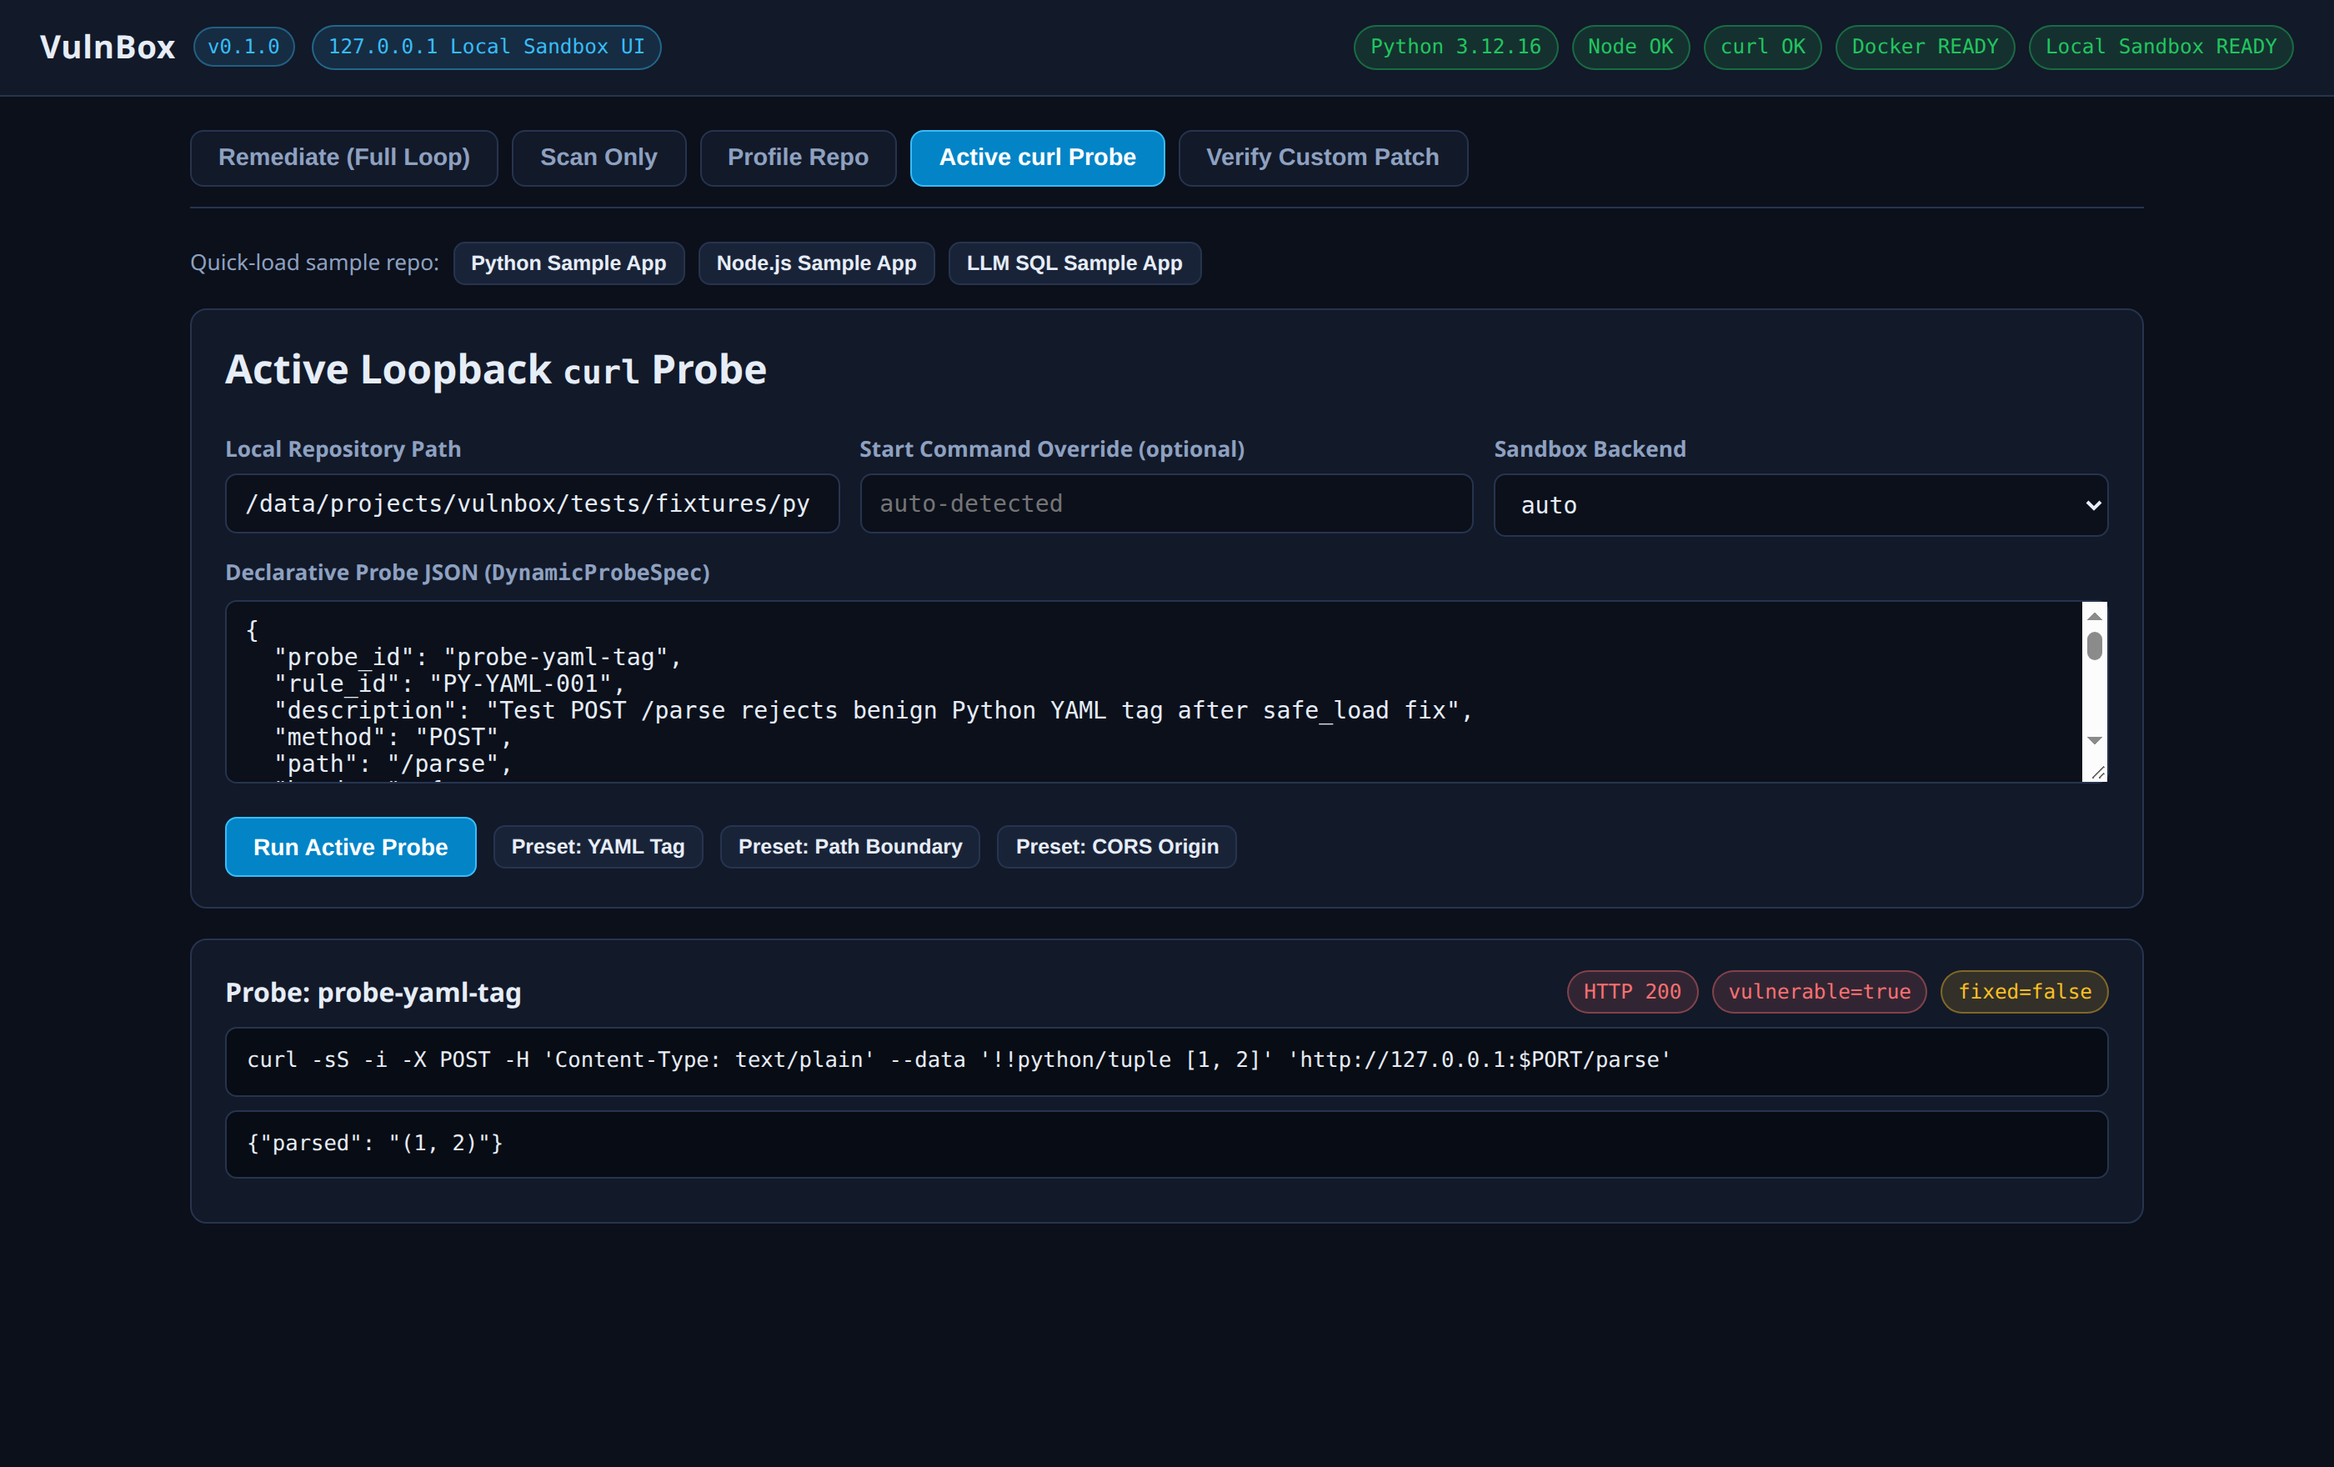
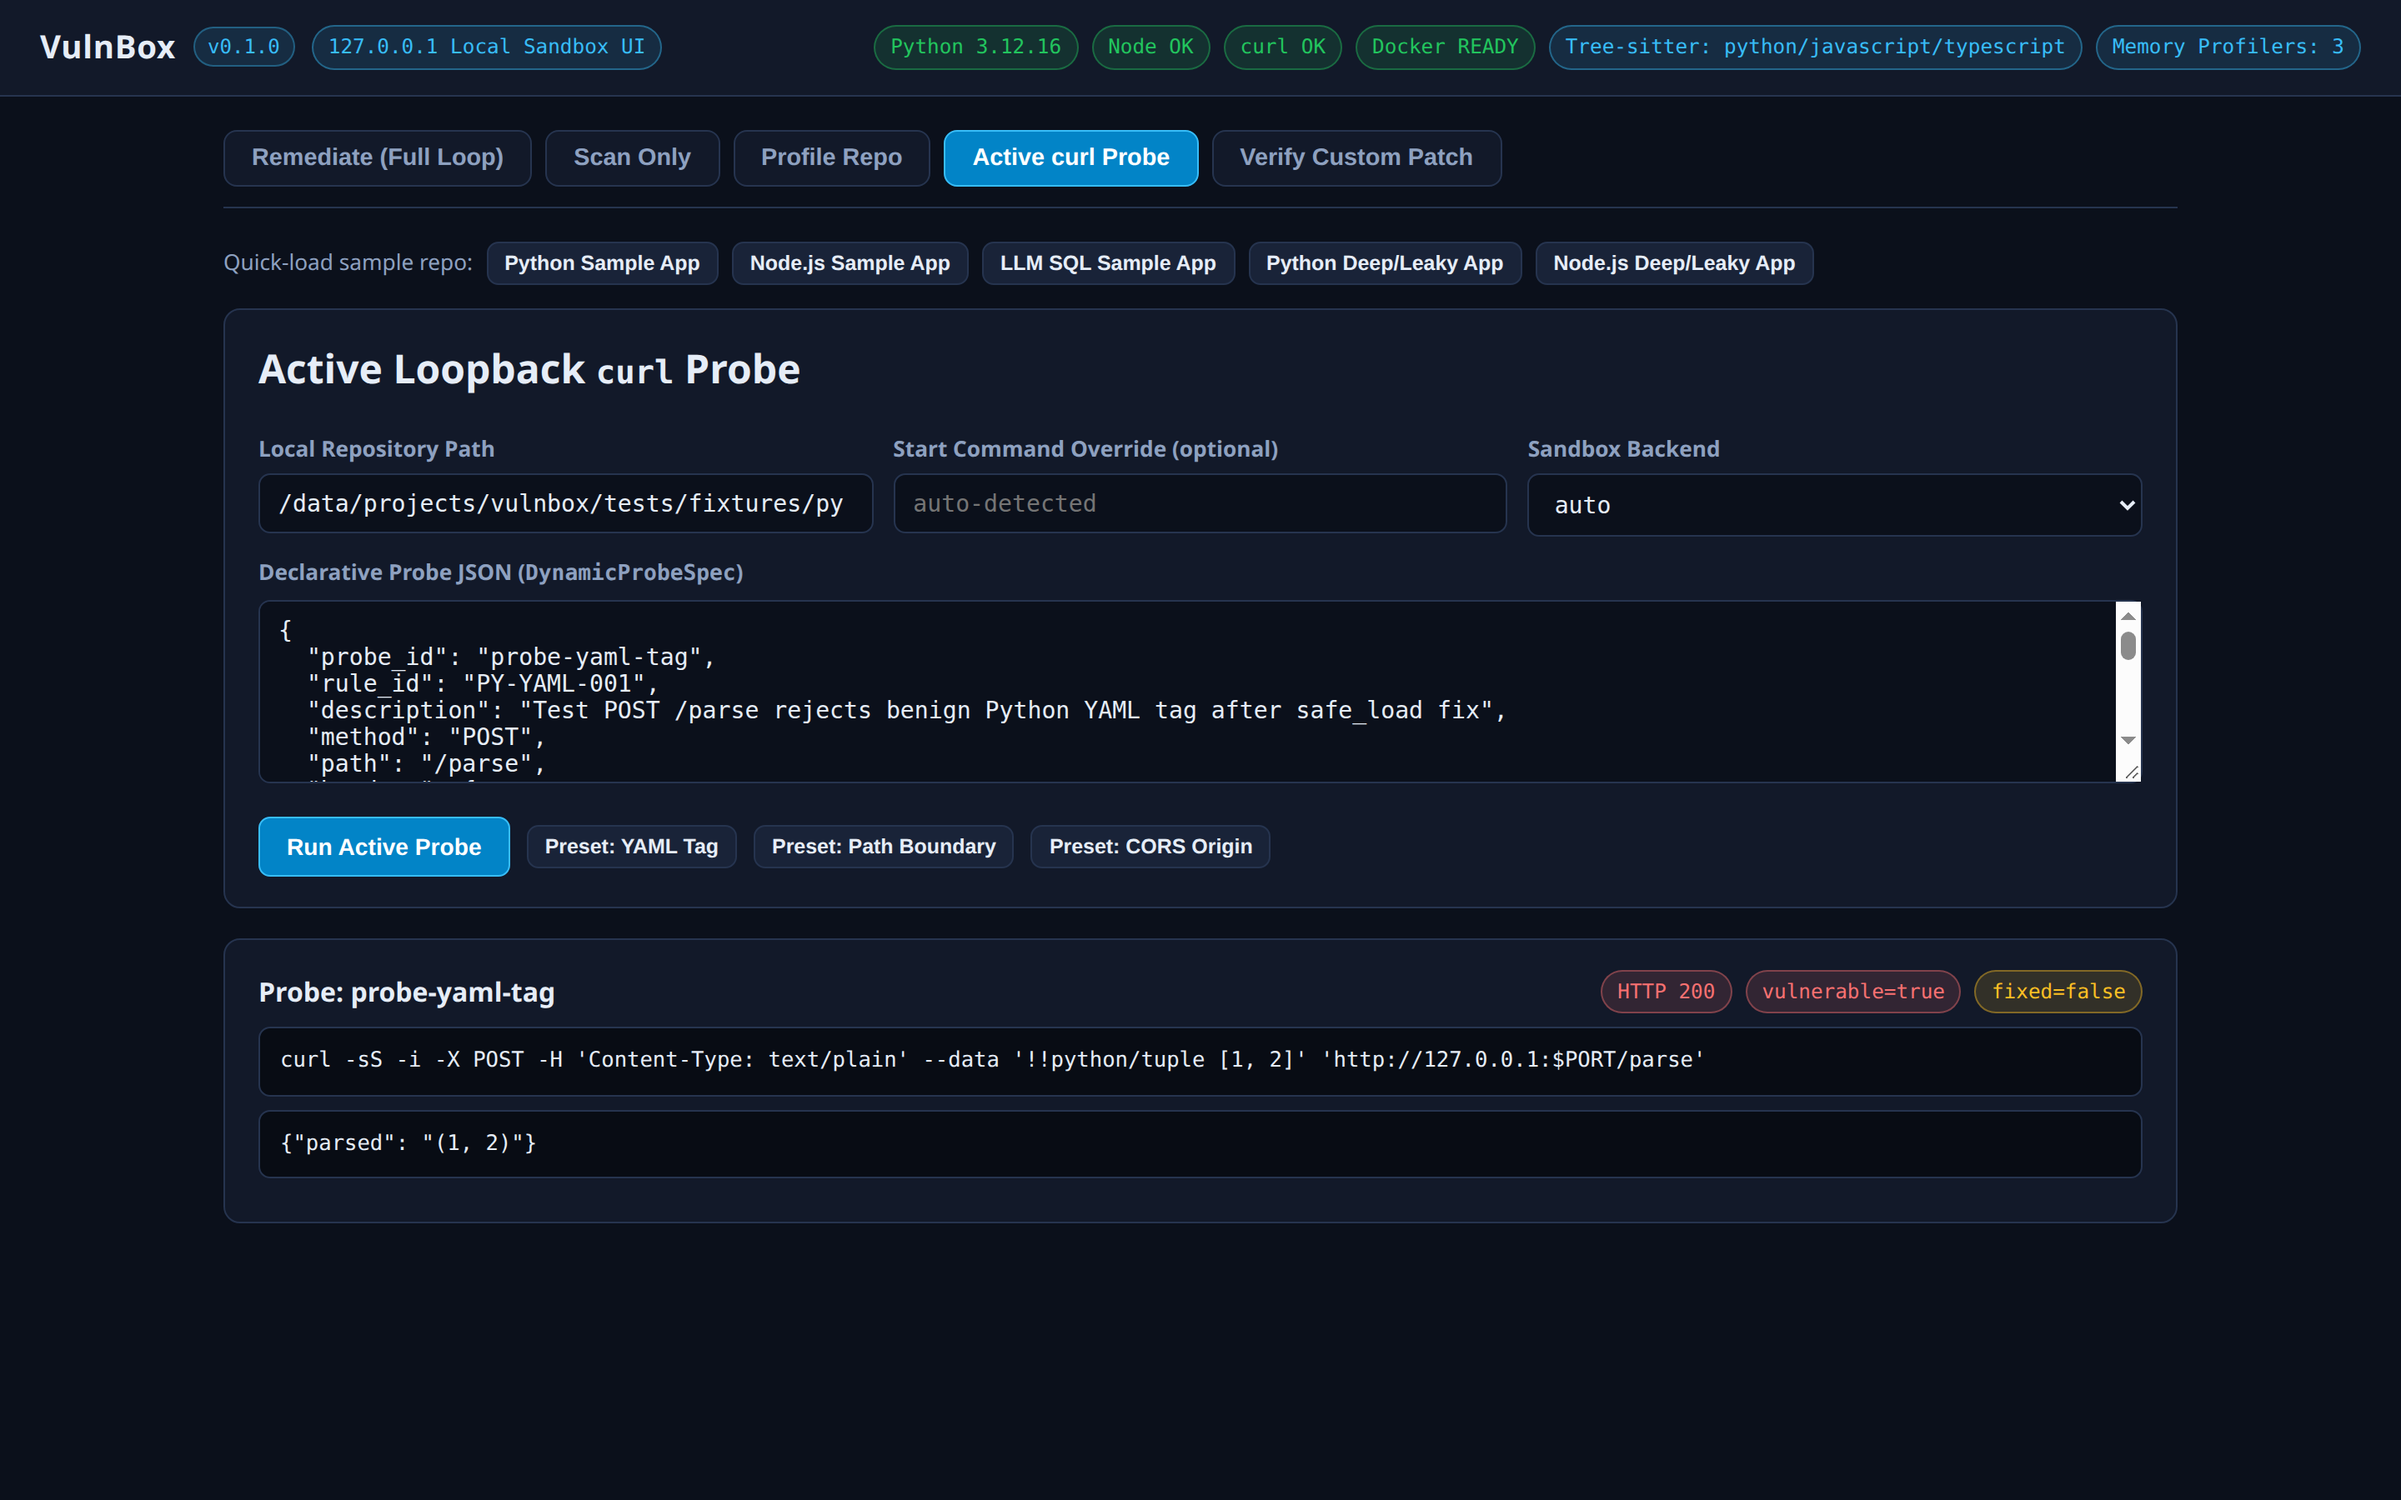
docs: refresh UI screenshots and document hybrid call graph and memory/FD leak detection

diff --git a/README.md b/README.md
@@ -57,19 +57,32 @@ It exposes every CLI workflow—**Remediate** (with optional guarded `--llm`), *
 
 The UI server binds strictly to loopback (`127.0.0.1`), enforces a per-session CSRF token (`X-VulnBox-Token`) on all `POST /api/*` requests, validates `Host`/`Origin` headers, and sets strict `Content-Security-Policy` and `X-Frame-Options: DENY` headers.
 
-![VulnBox Web UI Remediation Results](docs/images/ui-remediate-results.png)
+![VulnBox Web UI Deep Scan and Memory Leak Verification](docs/images/ui-deep-memory-leaks.png)
 
-See all UI screenshots (Dashboard + `--llm` controls, Remediation Diffs, and Active `curl` Probe tab) in **[docs/ui-guide.md](docs/ui-guide.md)**.
+See all UI screenshots (Dashboard + `--deep`/`--check-leaks`/`--llm` controls, Before/After Memory & FD Slope Proof, Remediation Diffs, and Active `curl` Probe tab) in **[docs/ui-guide.md](docs/ui-guide.md)**.
+
+## Hybrid Call Graph & Memory/FD Leak Detection (`--deep` / `--check-leaks`)
+
+Default `vulnbox scan` stays fast and deterministic—running Python AST, **Tree-sitter JS/TS AST**, config/secret hygiene, static **CWE-401 / CWE-772 memory & resource leak rules** (`MEM-PY-001..004`, `MEM-JS-001..004`), and cross-file static call-graph reachability.
+
+Pass `--deep` (or `--check-leaks`) to unlock full hybrid sandbox verification:
+
+| Capability | How It Works Inside the Sandbox | Fault-Tolerant Fallback |
+| :--- | :--- | :--- |
+| **Hybrid Call Graph (`--deep`)** | Merges cross-file Python AST + Tree-sitter JS/TS CST + FastAPI/Express route/DI edges with runtime edges captured via **Python 3.12+ `sys.monitoring` (PEP 669)** and **Node.js `node:inspector` Profiler + Precise Coverage**, resolving `getattr()` and dynamic subscript dispatch (`runtime_observed`) and attaching entrypoint-to-sink CVE `call_path` traces. | If a runtime hook or grammar is unavailable on the host, degrades cleanly back to static edges with zero crash. |
+| **Dynamic Memory & FD Leak Probing (`--check-leaks` / `--deep`)** | Runs warmup → baseline GC → repeated loopback stress requests → post-GC snapshots, computing OLS heap growth slope (`B/req`), $R^2$, `/proc/<pid>/fd` delta, and `file:line` allocation attribution. Verifies leak patches **before vs. after** (`LEAK -> FIXED`). | Pluggable `MemoryProfilerAdapter` chain: `python-tracemalloc` → `node-v8-inspector` → `os-proc-fallback` (Linux `/proc` RSS+FD for any binary) → graceful `skipped=True` (never breaks scans or patch verification on incompatible OS/runtimes). |
 
 ## End-to-End Sample Runs (Captured Docker Sandbox Output)
 
-All three bundled sample repositories were tested end-to-end inside the hardened **`vulnbox-sandbox:latest`** Docker container (`--network=none`, `--cap-drop=ALL`, `--read-only`, non-root user). Full captured CLI output, before/after `curl` HTTP responses, unified diffs, regression test transitions, and Guardrail Audit Trails live under `docs/`:
+Bundled sample repositories were tested end-to-end inside the hardened **`vulnbox-sandbox:latest`** Docker container (`--network=none`, `--cap-drop=ALL`, `--read-only`, non-root user, `memray` included). Full captured CLI output, before/after `curl` HTTP responses, unified diffs, regression test transitions, and Guardrail Audit Trails live under `docs/`:
 
-| Sample Repo | Mode | Findings | Verified Patches | Live `curl` Confirmed → Fixed | Full Capture |
+| Sample Repo | Mode | Findings | Verified Patches | Live Proof Confirmed → Fixed | Full Capture |
 | :--- | :--- | :---: | :---: | :---: | :--- |
-| [`tests/fixtures/py_sample_app`](tests/fixtures/py_sample_app) | Deterministic (`--backend docker`) | 8 | 7 / 7 | 2 (`PY-YAML-001`, `PY-PATH-001`) | [docs/sample-run-python.md](docs/sample-run-python.md) |
-| [`tests/fixtures/node_sample_app`](tests/fixtures/node_sample_app) | Deterministic (`--backend docker`) | 5 | 5 / 5 | 2 (`JS-PATH-001`, `JS-CORS-001`) | [docs/sample-run-node.md](docs/sample-run-node.md) |
-| [`tests/fixtures/llm_sql_app`](tests/fixtures/llm_sql_app) | Guarded LLM (`--llm` Ollama `qwen2.5:7b` + Docker) | 1 | 1 / 1 | 1 (`PY-SQL-001` + prompt-injection guardrail) | [docs/sample-run-llm-ollama.md](docs/sample-run-llm-ollama.md) |
+| [`tests/fixtures/py_sample_app`](tests/fixtures/py_sample_app) | Deterministic (`--backend docker`) | 8 | 7 / 7 | 2 `curl` (`PY-YAML-001`, `PY-PATH-001`) + CVE call path | [docs/sample-run-python.md](docs/sample-run-python.md) |
+| [`tests/fixtures/node_sample_app`](tests/fixtures/node_sample_app) | Deterministic (`--backend docker`) | 5 | 5 / 5 | 2 `curl` (`JS-PATH-001`, `JS-CORS-001`) | [docs/sample-run-node.md](docs/sample-run-node.md) |
+| [`tests/fixtures/py_leaky_app`](tests/fixtures/py_leaky_app) | Deep Hybrid (`--backend docker --deep`) | 2 | 2 / 2 | 2 Memory/FD (`16.9 KB/req → flat`, `FD +30 → 0`) + `getattr` resolved | [docs/ui-guide.md](docs/ui-guide.md) |
+| [`tests/fixtures/node_leaky_app`](tests/fixtures/node_leaky_app) | Deep Hybrid (`--backend docker --deep`) | 2 | 2 / 2 | 2 V8 Heap Leaks (`Map` + `EventEmitter.on`) + subscript resolved | [docs/ui-guide.md](docs/ui-guide.md) |
+| [`tests/fixtures/llm_sql_app`](tests/fixtures/llm_sql_app) | Guarded LLM (`--llm` Ollama `qwen2.5:7b` + Docker) | 1 | 1 / 1 | 1 `curl` (`PY-SQL-001` + prompt-injection guardrail) | [docs/sample-run-llm-ollama.md](docs/sample-run-llm-ollama.md) |
 | Public Benchmarks (`fastapi/full-stack-fastapi-template`, `OWASP/NodeGoat`) | Real-World Precision & Recall (`scan`) | 5 / 5 | — | Triage + Gap Analysis | [docs/benchmark-public-repos.md](docs/benchmark-public-repos.md) |
 
 ## Optional Guarded LLM Mode (`--llm`)

diff --git a/docs/ui-guide.md b/docs/ui-guide.md
@@ -11,23 +11,31 @@ Launch the zero-dependency local Web UI backed by `VulnBoxEngine` on **Linux, ma
 
 All launchers keep setup, `.venv/`, and `uv`/`pip` caches (`.vulnbox-cache/`) **strictly local to the repository** (setting `PIP_REQUIRE_VIRTUALENV=1`, `PIP_USER=0`, `PYTHONNOUSERSITE=1`, `UV_PROJECT_ENVIRONMENT=.venv`, and `UV_CACHE_DIR=.vulnbox-cache/uv`). They accept `--host`, `--port`, `--no-browser`, `--install` (force re-sync), `--no-install`, and `--dry-run`, and respect `VULNBOX_UI_HOST`, `VULNBOX_UI_PORT`, and `VULNBOX_NO_BROWSER`. Opens `http://127.0.0.1:8787` by default.
 
-## 1. Dashboard Overview & Guarded `--llm` Controls
+## 1. Dashboard Overview, Deep Scan (`--deep`), `--jobs`, & Guarded `--llm` Controls
 
-The top environment doctor bar reports live readiness for Python, Node.js, `curl`, the hardened Docker sandbox, and the isolated local sandbox. One-click sample buttons load bundled Python, Node.js, or LLM SQL fixtures, and the optional **Guarded LLM Synthesis (`--llm`)** panel configures Ollama, Gemini, OpenAI, or custom OpenAI-compatible endpoints.
+The top environment doctor bar reports live readiness for Python, Node.js, `curl`, the hardened Docker sandbox, **Tree-sitter grammars** (`python/javascript/typescript`), and **pluggable Memory Profilers**. One-click sample buttons load bundled Python, Node.js, LLM SQL, and Deep/Leaky fixtures, alongside `--jobs` parallel workers, **Deep Scan (`--deep`)**, **Check Memory & FD Leaks (`--check-leaks`)**, and the optional **Guarded LLM Synthesis (`--llm`)** configuration panel.
 
 ![VulnBox Web UI Dashboard Overview](images/ui-dashboard-overview.png)
 
 ---
 
-## 2. Live Docker Remediation Results, Before/After `curl` Proof & Diff Viewer
+## 2. Deep Scan: Hybrid Call Graph & Before/After Memory/FD Slope Verification
 
-After running end-to-end remediation inside the hardened Docker sandbox (`--network=none`), the UI displays executive KPI cards, downloadable `report.md` / `findings.sarif.json` / `manifest.json` artifacts, side-by-side **Before Patch vs. After Patch `curl` responses**, syntax-highlighted unified diffs with one-click copy, expandable generated regression tests, and the **Guardrail Audit Trail**.
+Enabling **Deep Scan (`--deep`)** + **Check Memory & FD Leaks (`--check-leaks`)** resolves dynamic `getattr()` / subscript dispatch gaps at runtime via Python 3.12 `sys.monitoring` and Node.js V8 Inspector, and runs active loopback heap & file-descriptor stress probes before and after applying each auto-patch—proving linear memory growth (`B/req`, $R^2$) and FD leaks (`FD Δ`) drop to flat steady-state after patching. If a host OS or runtime has no compatible memory profiler, the UI displays a non-fatal **`MEMORY PROBE SKIPPED`** badge without breaking verification.
+
+![VulnBox Web UI Deep Scan and Memory Leak Verification](images/ui-deep-memory-leaks.png)
+
+---
+
+## 3. Live Docker Remediation Results, Call-Path Reachability, Before/After `curl` Proof & Diff Viewer
+
+After running end-to-end remediation inside the hardened Docker sandbox (`--network=none`), the UI displays executive KPI cards, downloadable `report.md` / `findings.sarif.json` / `manifest.json` artifacts, **Reachability Call Paths** (`entrypoint -> ... -> sink`), side-by-side **Before Patch vs. After Patch `curl` responses**, syntax-highlighted unified diffs with one-click copy, expandable generated regression tests, and the **Guardrail Audit Trail**.
 
 ![VulnBox Web UI Remediation Results with Live curl Verification](images/ui-remediate-results.png)
 
 ---
 
-## 3. Active Loopback `curl` Probe Runner
+## 4. Active Loopback `curl` Probe Runner
 
 Test any custom or preset declarative `DynamicProbeSpec` JSON against a repository booted strictly on `127.0.0.1` inside the sandbox to actively reproduce vulnerabilities before authoring a patch.
 
@@ -40,4 +48,4 @@ Test any custom or preset declarative `DynamicProbeSpec` JSON against a reposito
 - **Loopback-Only Binding:** Binds strictly to `127.0.0.1` by default (refuses `0.0.0.0` unless explicitly overridden in code).
 - **Per-Session CSRF Protection:** Every `POST /api/*` endpoint requires a random per-session `X-VulnBox-Token` header verified with constant-time comparison.
 - **Host & Origin Validation:** Rejects cross-origin and non-loopback `Host`/`Origin` requests with `HTTP 403`.
-- **Hardened HTTP Headers & XSS-Safe Rendering:** Sends strict `Content-Security-Policy`, `X-Frame-Options: DENY`, `X-Content-Type-Options: nosniff`, and `Referrer-Policy: no-referrer`, and renders all repository data via safe DOM `.textContent` nodes.
+- **Hardened HTTP Headers & XSS-Safe Rendering:** Sends strict `Content-Security-Policy` (`script-src 'self'; style-src 'self'` with zero `'unsafe-inline'`), `X-Frame-Options: DENY`, `X-Content-Type-Options: nosniff`, and `Referrer-Policy: no-referrer`, and renders all repository data via safe DOM `.textContent` nodes.
